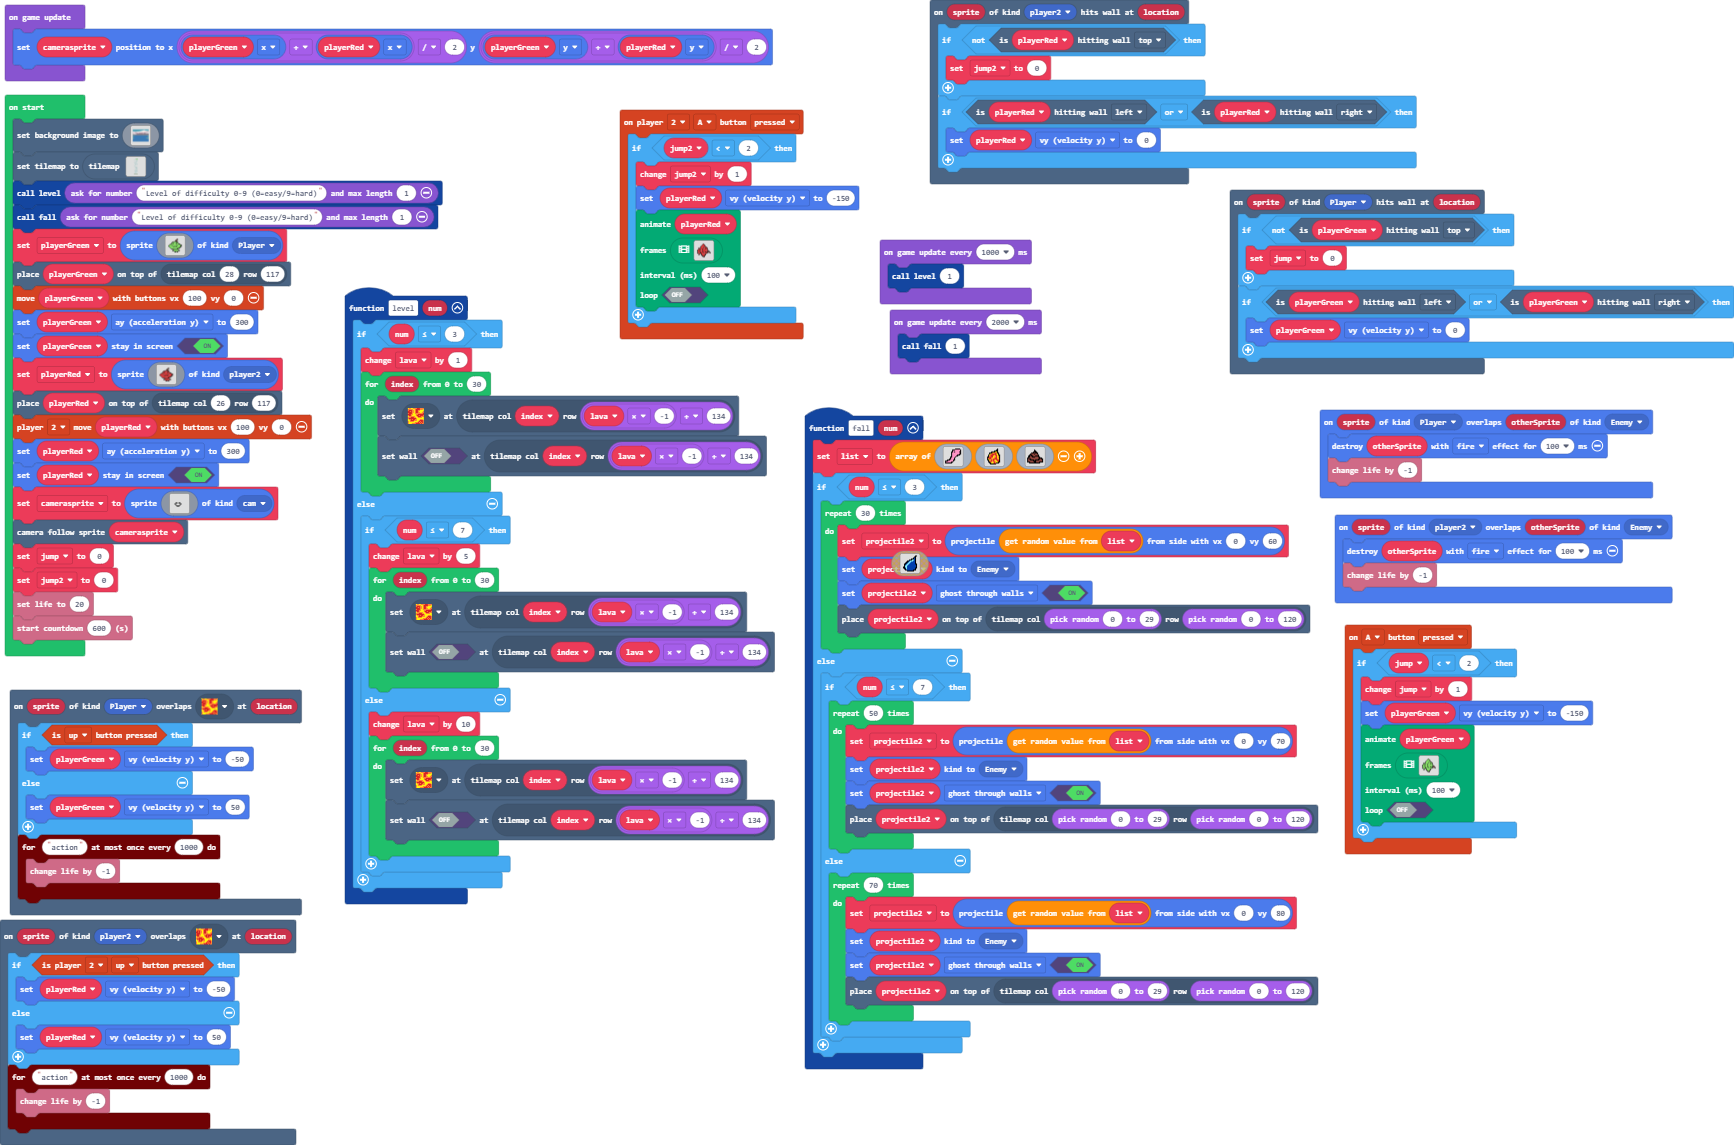
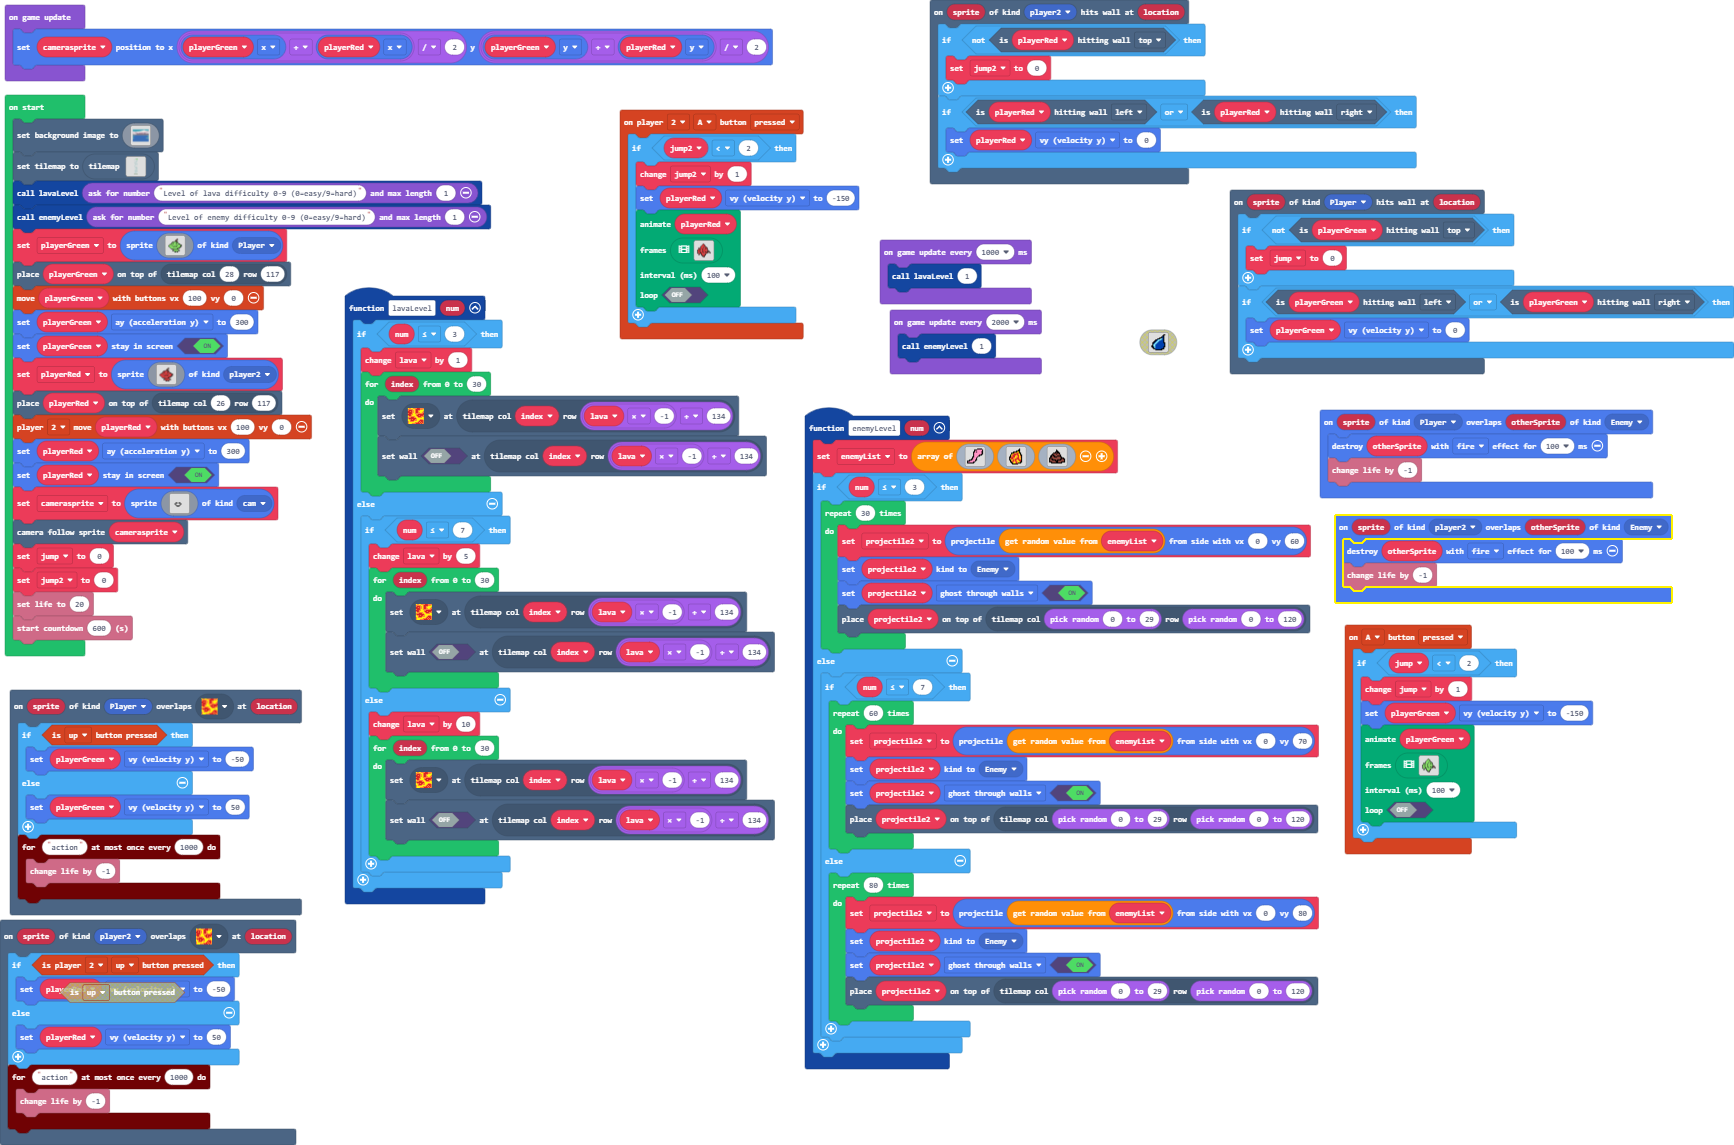
Update pxt.json, main.blocks, main.ts

diff --git a/main.ts b/main.ts
@@ -2,6 +2,67 @@ namespace SpriteKind {
     export const player2 = SpriteKind.create()
     export const cam = SpriteKind.create()
 }
+function enemyLevel (num: number) {
+    enemyList = [assets.image`worm`, img`
+        . . . . . . . . . . . f . . . . 
+        . . . . . . . . . . f f . . . . 
+        . . . . . . . . f f f f . . . . 
+        . . . . . f f f f 5 5 f . . . . 
+        . . . f f f 4 5 4 2 2 f f . . . 
+        . . . f 5 4 2 2 2 2 5 5 f . . . 
+        . . f 5 2 2 2 2 4 2 2 5 f f . . 
+        . . f 4 4 2 2 5 5 4 2 5 4 f . . 
+        . f f 4 2 2 2 5 4 4 2 5 4 f . . 
+        . f 2 2 2 4 5 5 4 2 2 5 4 f . . 
+        . f 5 2 2 4 4 2 2 2 2 4 5 f . . 
+        . f f 5 5 2 4 2 4 5 2 2 2 f . . 
+        . . f 4 2 2 4 2 4 5 5 2 2 f . . 
+        . . f f 4 4 5 4 2 4 5 5 f f . . 
+        . . . f f 5 5 4 2 4 f f f . . . 
+        . . . . f f f f f f . . . . . . 
+        `, img`
+        . . . . . . . . . . . . . . . . 
+        . . . . . . . f . . . . . . . . 
+        . . . . . . . f f . . . . . . . 
+        . . . . . . f f f f . . . . . . 
+        . . . . f f f e f f f . . . . . 
+        . . . f e e e f e e f . . . . . 
+        . . f f f e e e e e e f . . . . 
+        . f f e f f e e f f f f . . . . 
+        . f f e e f f f e e e f f . . . 
+        f f e e e e e e e e e e f f f . 
+        f e f f e e e e e e e f f e f f 
+        f e e f f f f e f f f f e e e f 
+        f e e e e e f f f e e e e e e f 
+        f f f e e e e f f e e e f f f f 
+        . . f f f f f f f f f f f . . . 
+        . . . . . . . . . . . . . . . . 
+        `]
+    if (num <= 3) {
+        for (let index = 0; index < 30; index++) {
+            projectile2 = sprites.createProjectileFromSide(enemyList._pickRandom(), 0, 60)
+            projectile2.setKind(SpriteKind.Enemy)
+            projectile2.setFlag(SpriteFlag.GhostThroughWalls, true)
+            tiles.placeOnTile(projectile2, tiles.getTileLocation(randint(0, 29), randint(0, 120)))
+        }
+    } else {
+        if (num <= 7) {
+            for (let index = 0; index < 60; index++) {
+                projectile2 = sprites.createProjectileFromSide(enemyList._pickRandom(), 0, 70)
+                projectile2.setKind(SpriteKind.Enemy)
+                projectile2.setFlag(SpriteFlag.GhostThroughWalls, true)
+                tiles.placeOnTile(projectile2, tiles.getTileLocation(randint(0, 29), randint(0, 120)))
+            }
+        } else {
+            for (let index = 0; index < 80; index++) {
+                projectile2 = sprites.createProjectileFromSide(enemyList._pickRandom(), 0, 80)
+                projectile2.setKind(SpriteKind.Enemy)
+                projectile2.setFlag(SpriteFlag.GhostThroughWalls, true)
+                tiles.placeOnTile(projectile2, tiles.getTileLocation(randint(0, 29), randint(0, 120)))
+            }
+        }
+    }
+}
 scene.onHitWall(SpriteKind.Player, function (sprite, location) {
     if (!(playerGreen.isHittingTile(CollisionDirection.Top))) {
         jump = 0
@@ -14,29 +75,6 @@ sprites.onOverlap(SpriteKind.player2, SpriteKind.Enemy, function (sprite, otherS
     sprites.destroy(otherSprite, effects.fire, 100)
     info.changeLifeBy(-1)
 })
-function level (num: number) {
-    if (num <= 3) {
-        lava += 1
-        for (let index = 0; index <= 30; index++) {
-            tiles.setTileAt(tiles.getTileLocation(index, lava * -1 + 134), sprites.dungeon.hazardLava1)
-            tiles.setWallAt(tiles.getTileLocation(index, lava * -1 + 134), false)
-        }
-    } else {
-        if (num <= 7) {
-            lava += 5
-            for (let index = 0; index <= 30; index++) {
-                tiles.setTileAt(tiles.getTileLocation(index, lava * -1 + 134), sprites.dungeon.hazardLava1)
-                tiles.setWallAt(tiles.getTileLocation(index, lava * -1 + 134), false)
-            }
-        } else {
-            lava += 10
-            for (let index = 0; index <= 30; index++) {
-                tiles.setTileAt(tiles.getTileLocation(index, lava * -1 + 134), sprites.dungeon.hazardLava1)
-                tiles.setWallAt(tiles.getTileLocation(index, lava * -1 + 134), false)
-            }
-        }
-    }
-}
 controller.A.onEvent(ControllerButtonEvent.Pressed, function () {
     if (jump < 2) {
         jump += 1
@@ -181,67 +219,6 @@ controller.player2.onButtonEvent(ControllerButton.A, ControllerButtonEvent.Press
         )
     }
 })
-function fall (num: number) {
-    list = [assets.image`worm`, img`
-        . . . . . . . . . . . f . . . . 
-        . . . . . . . . . . f f . . . . 
-        . . . . . . . . f f f f . . . . 
-        . . . . . f f f f 5 5 f . . . . 
-        . . . f f f 4 5 4 2 2 f f . . . 
-        . . . f 5 4 2 2 2 2 5 5 f . . . 
-        . . f 5 2 2 2 2 4 2 2 5 f f . . 
-        . . f 4 4 2 2 5 5 4 2 5 4 f . . 
-        . f f 4 2 2 2 5 4 4 2 5 4 f . . 
-        . f 2 2 2 4 5 5 4 2 2 5 4 f . . 
-        . f 5 2 2 4 4 2 2 2 2 4 5 f . . 
-        . f f 5 5 2 4 2 4 5 2 2 2 f . . 
-        . . f 4 2 2 4 2 4 5 5 2 2 f . . 
-        . . f f 4 4 5 4 2 4 5 5 f f . . 
-        . . . f f 5 5 4 2 4 f f f . . . 
-        . . . . f f f f f f . . . . . . 
-        `, img`
-        . . . . . . . . . . . . . . . . 
-        . . . . . . . f . . . . . . . . 
-        . . . . . . . f f . . . . . . . 
-        . . . . . . f f f f . . . . . . 
-        . . . . f f f e f f f . . . . . 
-        . . . f e e e f e e f . . . . . 
-        . . f f f e e e e e e f . . . . 
-        . f f e f f e e f f f f . . . . 
-        . f f e e f f f e e e f f . . . 
-        f f e e e e e e e e e e f f f . 
-        f e f f e e e e e e e f f e f f 
-        f e e f f f f e f f f f e e e f 
-        f e e e e e f f f e e e e e e f 
-        f f f e e e e f f e e e f f f f 
-        . . f f f f f f f f f f f . . . 
-        . . . . . . . . . . . . . . . . 
-        `]
-    if (num <= 3) {
-        for (let index = 0; index < 30; index++) {
-            projectile2 = sprites.createProjectileFromSide(list._pickRandom(), 0, 60)
-            projectile2.setKind(SpriteKind.Enemy)
-            projectile2.setFlag(SpriteFlag.GhostThroughWalls, true)
-            tiles.placeOnTile(projectile2, tiles.getTileLocation(randint(0, 29), randint(0, 120)))
-        }
-    } else {
-        if (num <= 7) {
-            for (let index = 0; index < 50; index++) {
-                projectile2 = sprites.createProjectileFromSide(list._pickRandom(), 0, 70)
-                projectile2.setKind(SpriteKind.Enemy)
-                projectile2.setFlag(SpriteFlag.GhostThroughWalls, true)
-                tiles.placeOnTile(projectile2, tiles.getTileLocation(randint(0, 29), randint(0, 120)))
-            }
-        } else {
-            for (let index = 0; index < 70; index++) {
-                projectile2 = sprites.createProjectileFromSide(list._pickRandom(), 0, 80)
-                projectile2.setKind(SpriteKind.Enemy)
-                projectile2.setFlag(SpriteFlag.GhostThroughWalls, true)
-                tiles.placeOnTile(projectile2, tiles.getTileLocation(randint(0, 29), randint(0, 120)))
-            }
-        }
-    }
-}
 scene.onOverlapTile(SpriteKind.player2, sprites.dungeon.hazardLava1, function (sprite, location) {
     if (controller.player2.isPressed(ControllerButton.Up)) {
         playerRed.vy = -50
@@ -262,6 +239,29 @@ scene.onOverlapTile(SpriteKind.Player, sprites.dungeon.hazardLava1, function (sp
         info.changeLifeBy(-1)
     })
 })
+function lavaLevel (num: number) {
+    if (num <= 3) {
+        lava += 1
+        for (let index = 0; index <= 30; index++) {
+            tiles.setTileAt(tiles.getTileLocation(index, lava * -1 + 134), sprites.dungeon.hazardLava1)
+            tiles.setWallAt(tiles.getTileLocation(index, lava * -1 + 134), false)
+        }
+    } else {
+        if (num <= 7) {
+            lava += 5
+            for (let index = 0; index <= 30; index++) {
+                tiles.setTileAt(tiles.getTileLocation(index, lava * -1 + 134), sprites.dungeon.hazardLava1)
+                tiles.setWallAt(tiles.getTileLocation(index, lava * -1 + 134), false)
+            }
+        } else {
+            lava += 10
+            for (let index = 0; index <= 30; index++) {
+                tiles.setTileAt(tiles.getTileLocation(index, lava * -1 + 134), sprites.dungeon.hazardLava1)
+                tiles.setWallAt(tiles.getTileLocation(index, lava * -1 + 134), false)
+            }
+        }
+    }
+}
 scene.onHitWall(SpriteKind.player2, function (sprite, location) {
     if (!(playerRed.isHittingTile(CollisionDirection.Top))) {
         jump2 = 0
@@ -274,9 +274,9 @@ sprites.onOverlap(SpriteKind.Player, SpriteKind.Enemy, function (sprite, otherSp
     sprites.destroy(otherSprite, effects.fire, 100)
     info.changeLifeBy(-1)
 })
-let projectile2: Sprite = null
-let list: Image[] = []
 let lava = 0
+let projectile2: Sprite = null
+let enemyList: Image[] = []
 let jump2 = 0
 let jump = 0
 let playerRed: Sprite = null
@@ -404,8 +404,8 @@ scene.setBackgroundImage(img`
[1 lines of base64/hex data omitted]
     `)
 tiles.setCurrentTilemap(tilemap`level1`)
-level(game.askForNumber("Level of difficulty 0-9 (0=easy/9=hard)", 1))
-fall(game.askForNumber("Level of difficulty 0-9 (0=easy/9=hard)", 1))
+lavaLevel(game.askForNumber("Level of lava difficulty 0-9 (0=easy/9=hard)", 1))
+enemyLevel(game.askForNumber("Level of enemy difficulty 0-9 (0=easy/9=hard)", 1))
 playerGreen = sprites.create(assets.image`green apple`, SpriteKind.Player)
 tiles.placeOnTile(playerGreen, tiles.getTileLocation(28, 117))
 controller.moveSprite(playerGreen, 100, 0)
@@ -443,8 +443,8 @@ game.onUpdate(function () {
     camerasprite.setPosition((playerGreen.x + playerRed.x) / 2, (playerGreen.y + playerRed.y) / 2)
 })
 game.onUpdateInterval(2000, function () {
-    fall(1)
+    enemyLevel(1)
 })
 game.onUpdateInterval(1000, function () {
-    level(1)
+    lavaLevel(1)
 })
